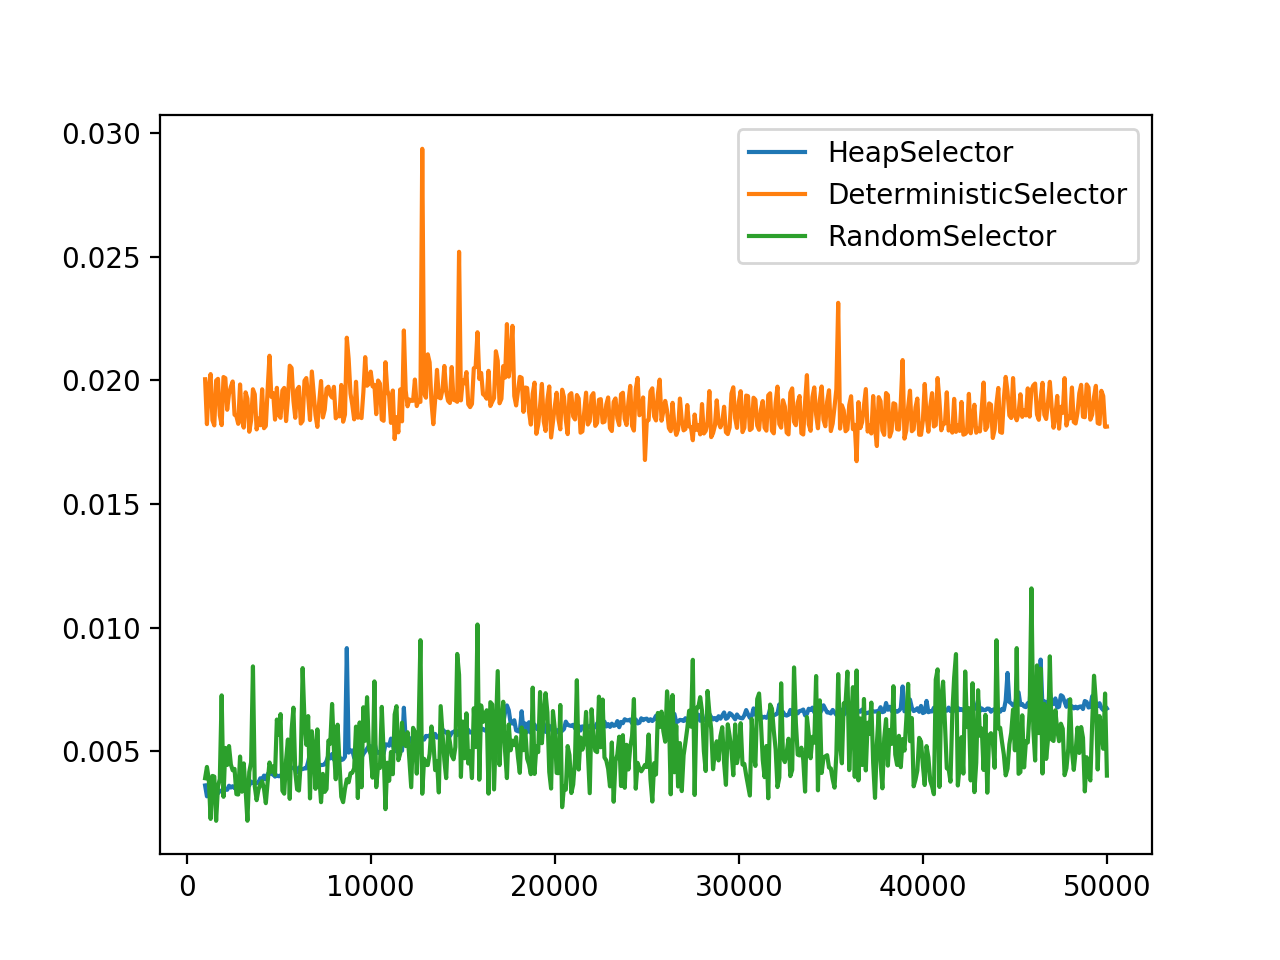
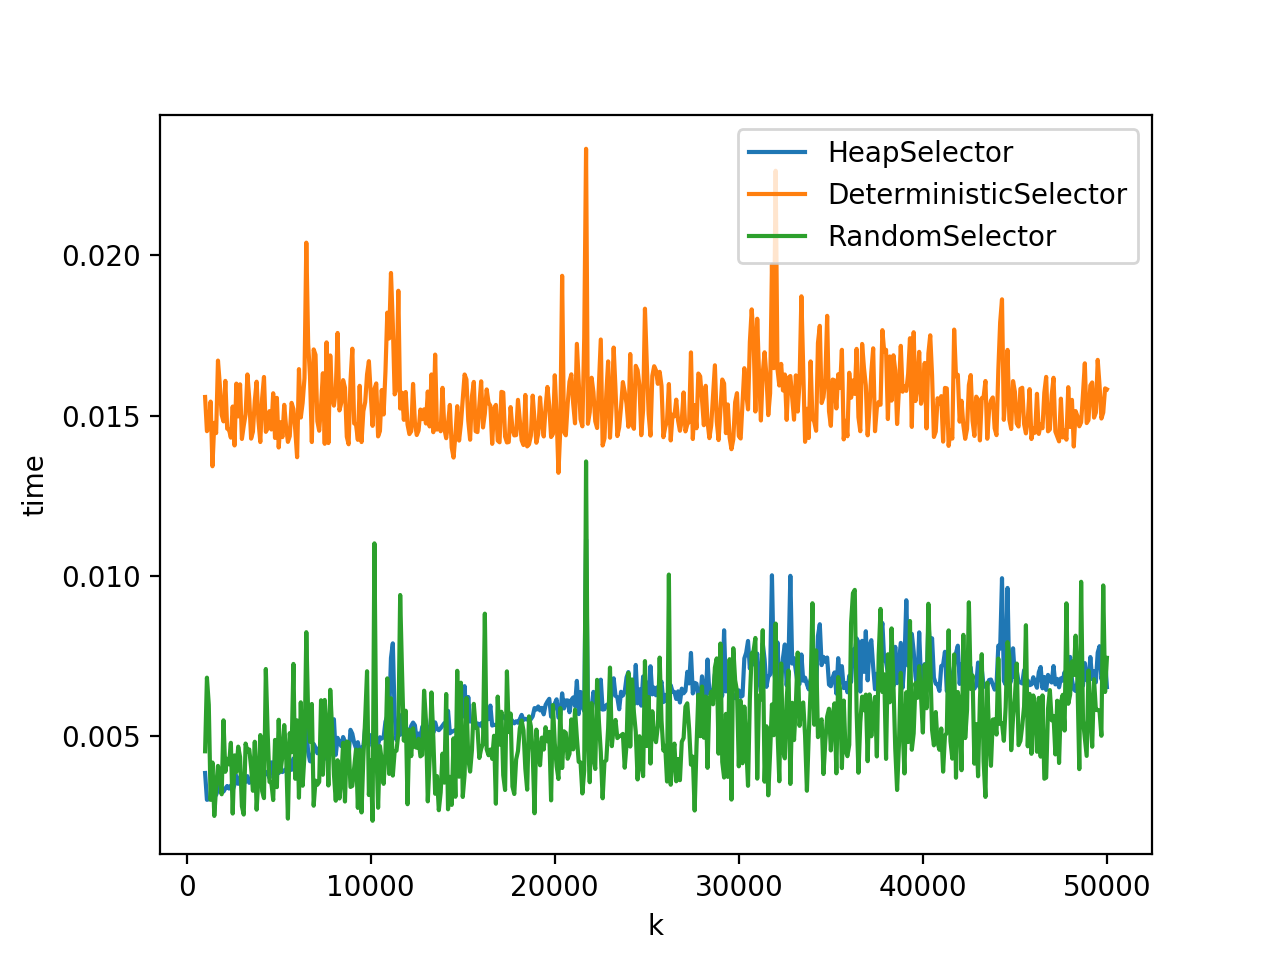
small changes

diff --git a/Selection_Algorithms.py b/Selection_Algorithms.py
@@ -33,17 +33,6 @@ def HeapSelection(arr,k):
 
 	return candidates[0]
 
-def partition_into_5er_set(arr): 
-	n = len(arr)
-	sets = []
-	index = 0
-	while index+5 < n:
-	    sets.append(arr[index:index+5])
-	    index += 5
-	sets.append(arr[index:])
-
-	return sets
-
 
 def split(arr, M): #for derteministic select
 	A1 = []
@@ -66,11 +55,11 @@ def DeterministicSelection(arr,k):
 		#return (HeapSelection(arr, k))
 		return sorted(arr)[n-k]
 	else: 
-		sets = partition_into_5er_set(arr) #partition arr into subsets of 5 elements
-		medians = []
-		for subset in sets:
-			l = len(subset)
-			medians.append(DeterministicSelection(subset, (l+1)//2)) #find median of subarray in O(1)
+		sets = [arr[x:x+5] for x in range(0, len(arr),5)] #partition arr into subsets of 5 elements
+		medians = [sorted(subset)[(len(subset)-1)//2] for subset in sets] #find medians of all subarrays
+		#for subset in sets:
+		#	l = len(subset)
+		#	medians.append(sorted(subset)[(l-1)//2]) 
 
 		M = DeterministicSelection(medians, (len(medians)+1)//2) #find median of medians
 		A1, A2, A3 = split(arr, M); #split arr into 3 subarrays: A1<M, A2 = M, A3 > M

diff --git a/test.py b/test.py
@@ -3,6 +3,7 @@ import numpy as np
 import time
 import matplotlib
 import matplotlib.pyplot as plt
+import random
 from tqdm import tqdm
 
 def test_with_time_measure(selector, arr, k):
@@ -31,6 +32,8 @@ def testcases(selector_list, n, k):
 	return times
 
 def main():
+	random.seed(112)
+	np.random.seed(259)
 	HS = s.HeapSelector()
 	DS = s.DeterministicSelector()
 	RS = s.RandomSelector()
@@ -44,6 +47,8 @@ def main():
 	for i in range(len(selector_list)):
 		plt.plot(k, times[i,:], label = selector_list[i].name)
 	plt.legend()
+	plt.xlabel('k')
+	plt.ylabel('time')
 	plt.show()
 
 
